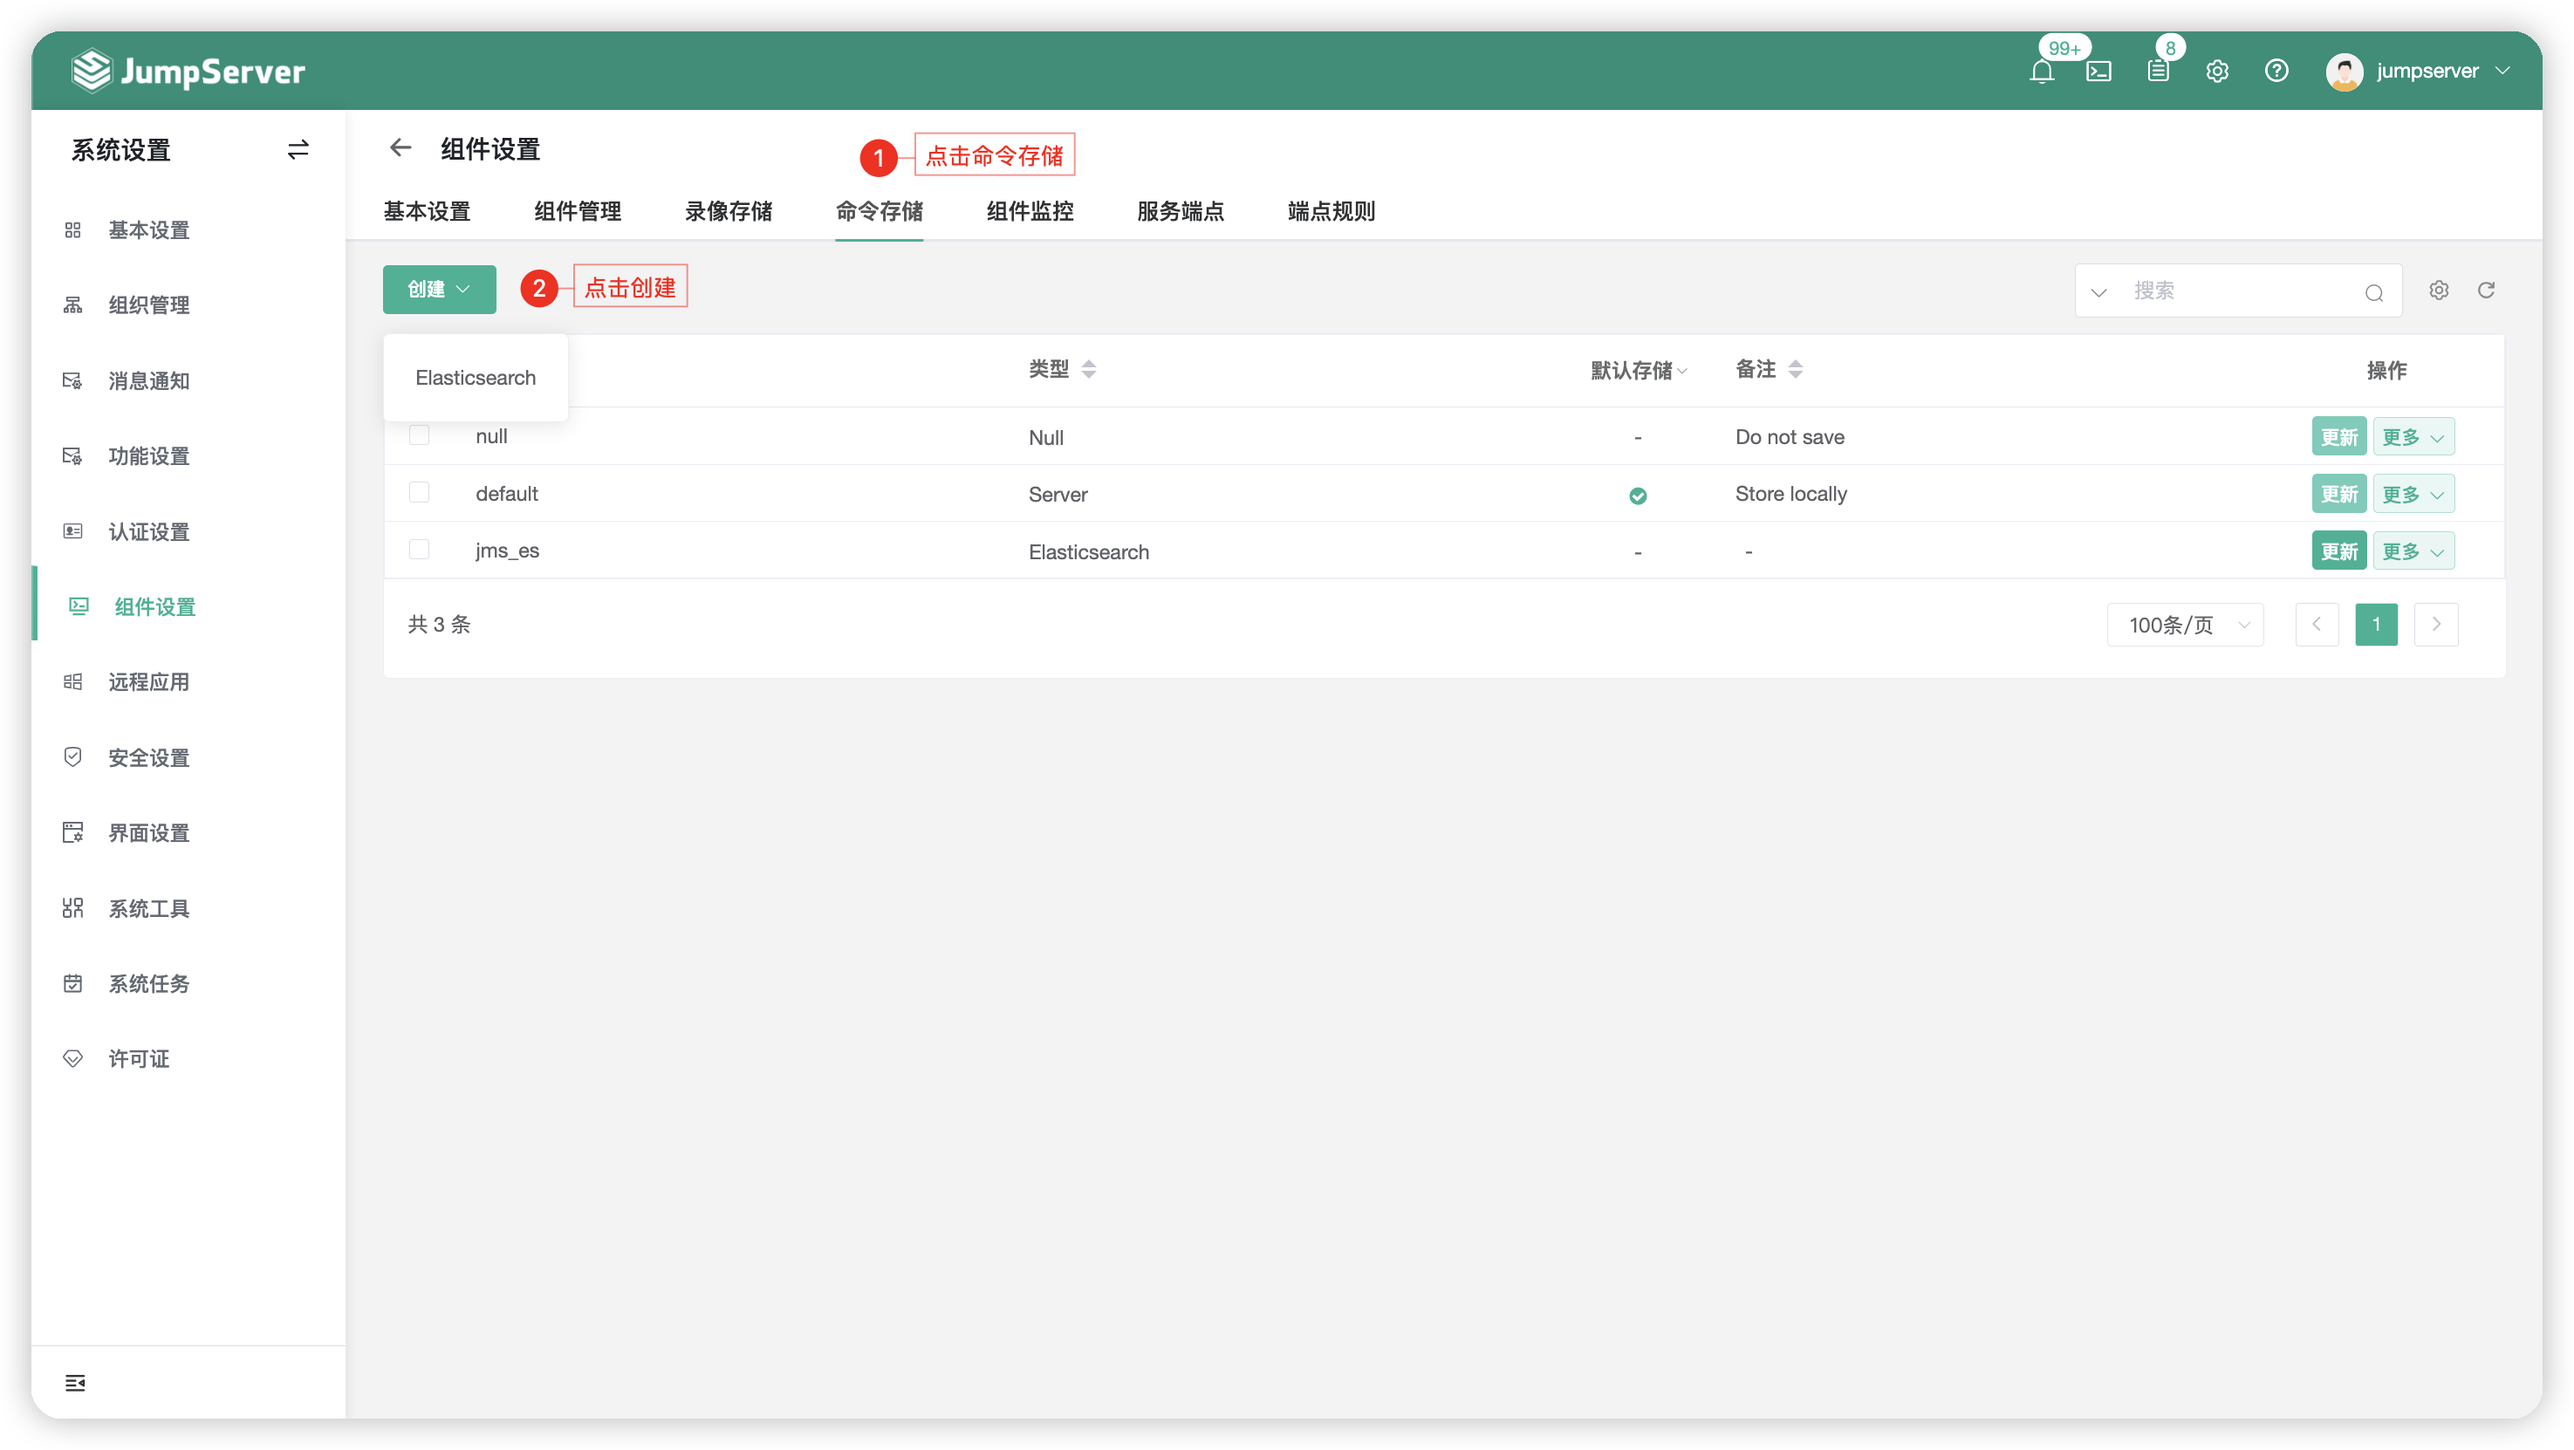
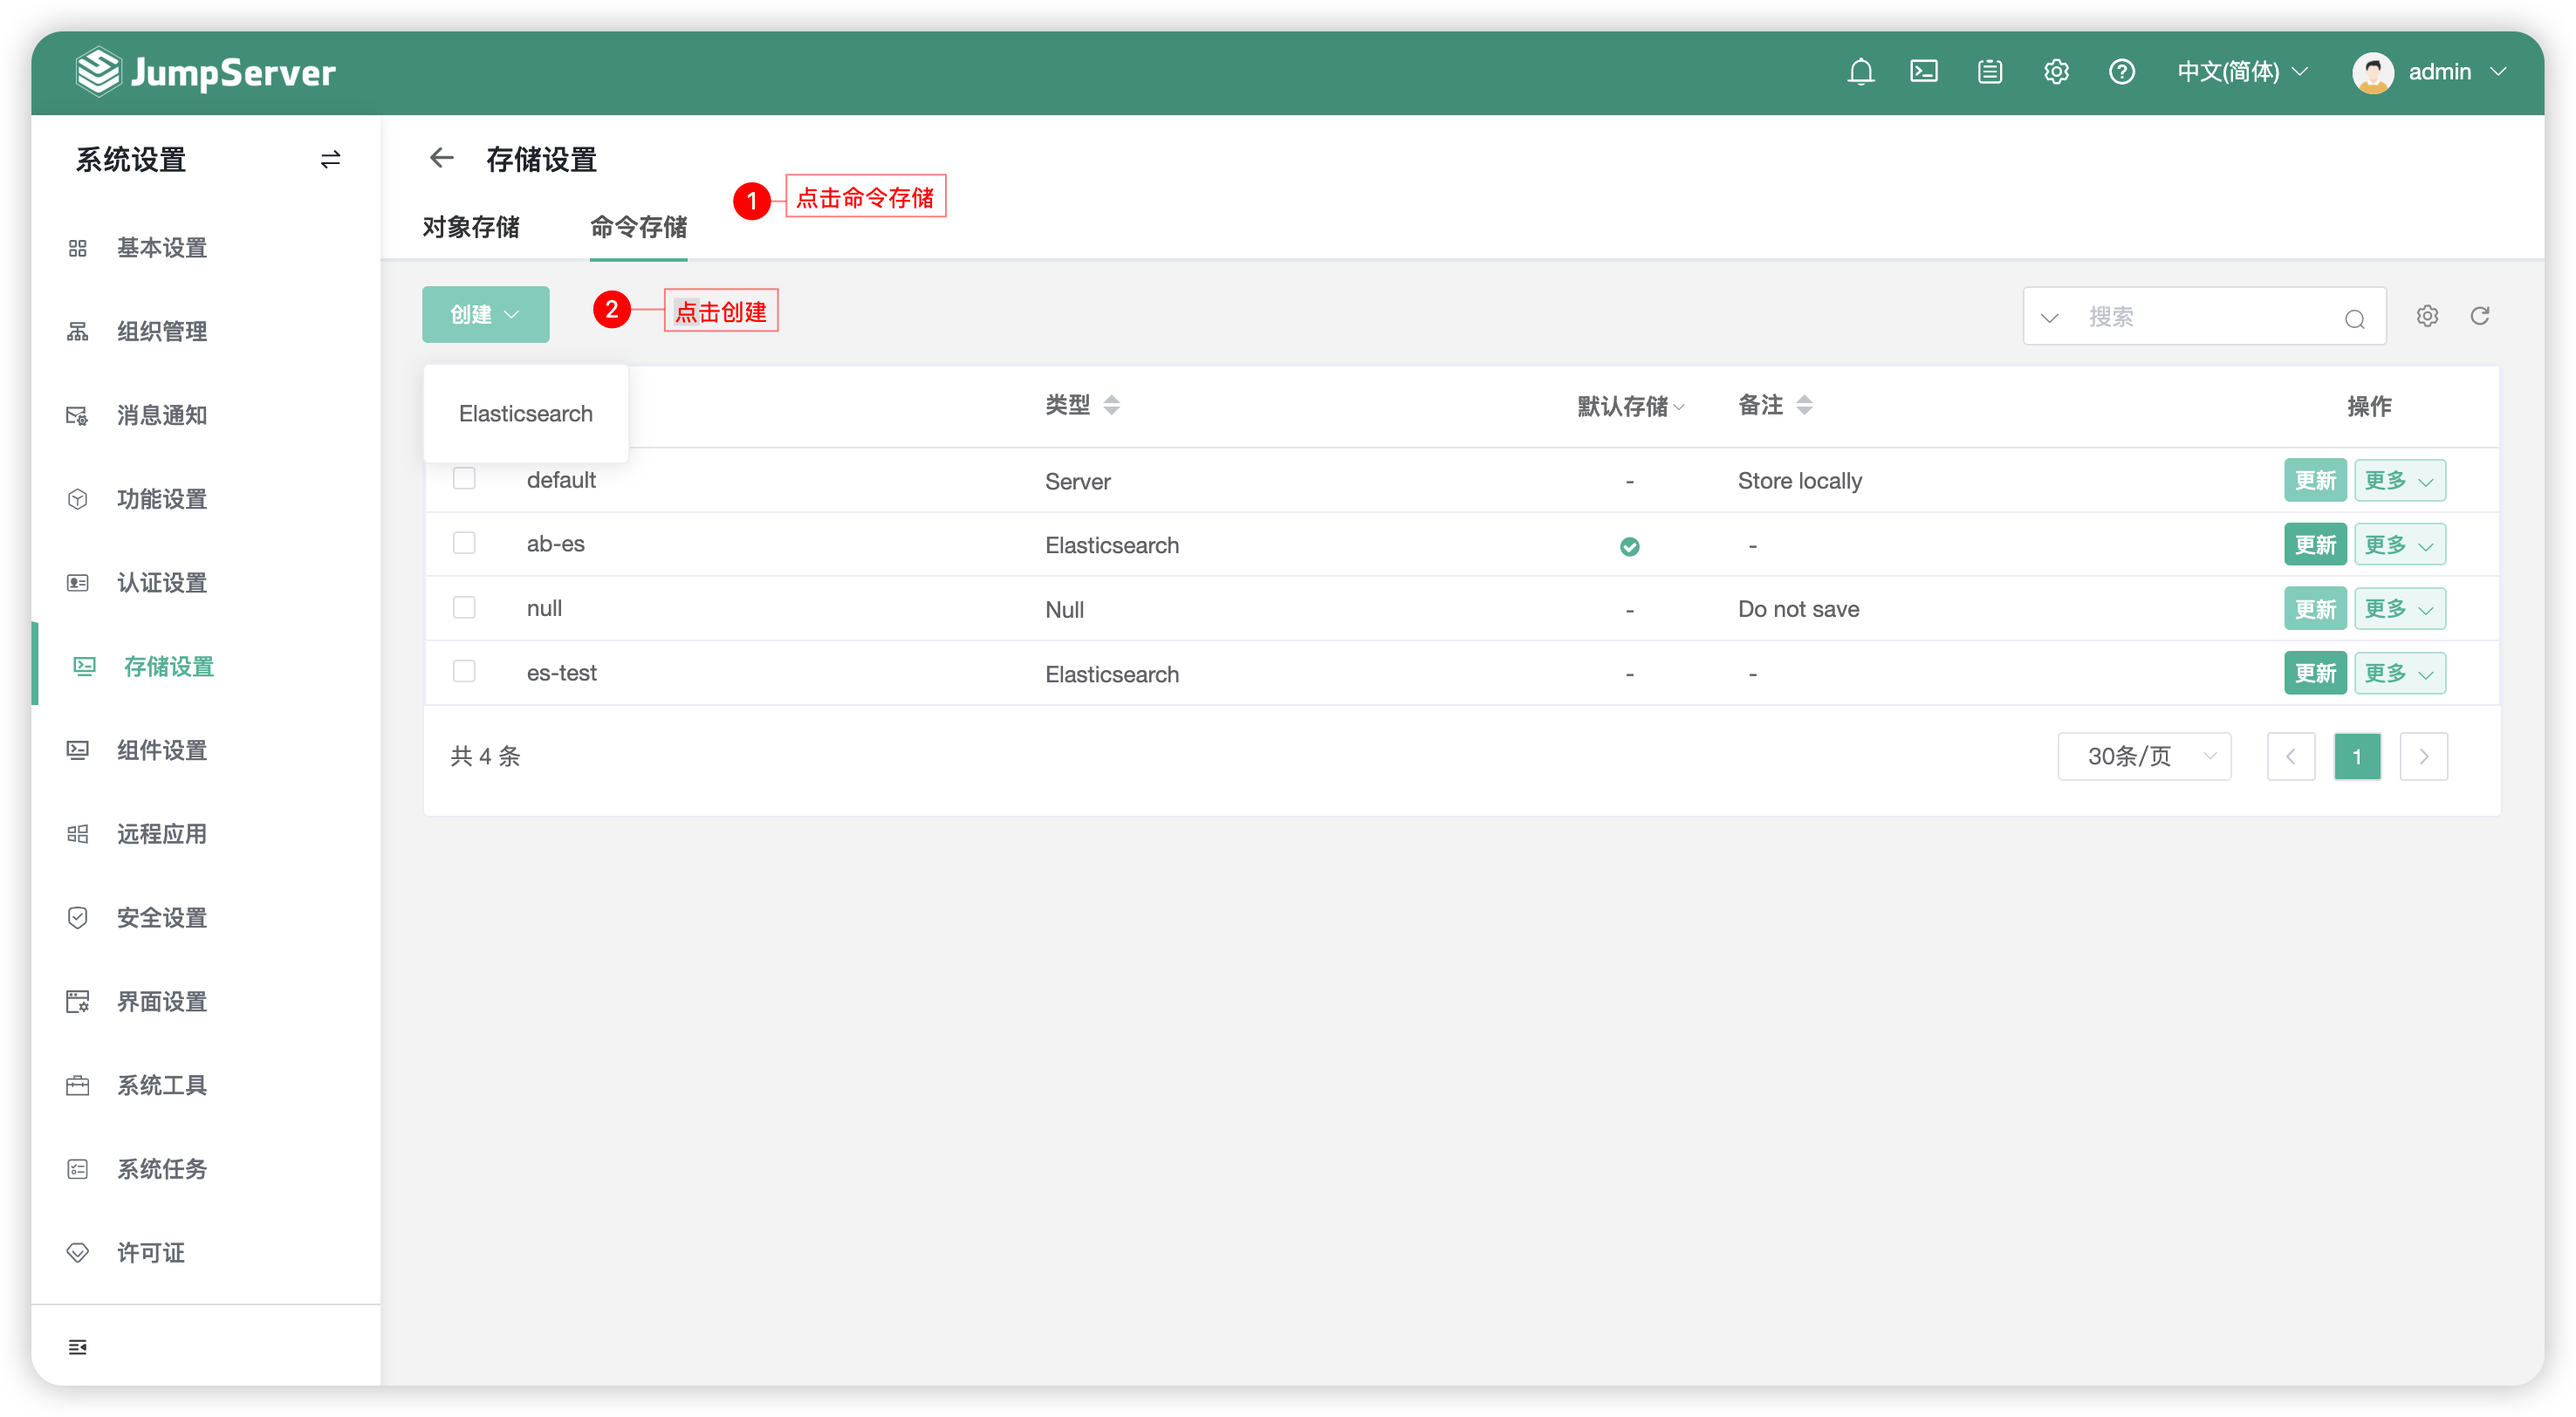
perf: 优化存储设置

diff --git a/docs/guide/system/component.md b/docs/guide/system/component.md
@@ -6,7 +6,7 @@
 
 ## 2 基本设置
 !!! tip ""
-    - 基本设置主要对四个方面进行设置：KoKo 组件、Razor 组件、Magnus 组件和 Luna 组件。
+    - 基本设置主要对三个方面进行设置：KoKo 组件、Razor 组件和 Magnus 组件。
 
 !!! tip ""
     - KoKo 组件是服务于类 Unix 资产平台的组件，该组件的功能主要是：命令行的方式纳管 Linux、数据库、K8S 等资产；
@@ -29,10 +29,8 @@
     | 密钥认证 | 该选项针对于命令行方式登录 JumpServer 堡垒机，关闭密钥认证即不支持密钥认证。 |
     | 资产列表排序 | 资产列表的排序规则按照"主机名"或者"IP"。 |
     | 资产列表每页数量 | 资产列表每一页展示的资产数量。 |
-    | Telnet 成功正则表达式 | 不同设备登录成功提示不一样，所以如果 Telnet 不能正常登录，可以这里设置。 |
     | 启用 Razor 服务 | 是否启用 Razor 服务即使用RDP客户端连接 Windows 资产。 |
     | 启用数据库组件 | 是否启用 Magnus 服务即使用外部客户端连接数据库资产。 |
-    | 默认图像化分辨率 | 设置在 Luna 页面中连接图形化资产时默认使用的分辨率。 |
 
 ## 3 组件管理
 !!! tip ""
@@ -50,48 +48,18 @@
     - 更新组件的命令存储与录像存储，录像记录默认存放在服务器本地；命令记录默认存放在数据库中，这里可以更改录像与命令记录到外部存储。
 ![component04](../../img/component04.png)
 
-## 4 录像存储
-!!! tip ""
-    - 录像存储页面可以对 JumpServer 连接资产的会话录像存储的位置进行自定义。
-    - 目前支持的外部录像存储有亚马逊的 S3 云存储、Ceph、Swift、OSS、Azure、OBS、COS。
-![component05](../../img/component05.png)
-
-!!! tip ""
-    - 点击`创建`按钮，选择对应的存储类型，以华为云的 OBS 存储为例：
-    - 以下图片中红框中的认证信息均在华为云控制台页面获取，输入对应的字段后点击提交。
-    - 创建完成后，即在终端管理中更新录像存储将录像存储在华为的 OBS 存储桶中。
-![component06](../../img/component06.png)
-
-!!! warning "注意"
-    - JumpServer 录像存储对接外部存储后，定期清理页面中的会话日志保存时间对录像存储失效。
-
-## 5 命令存储
-!!! tip ""
-    - 命令存储页面可以对 JumpServer 连接资产的会话命令记录存储的位置进行自定义。
-    - 目前支持的外部命令存储有 Elasticsearch。
-![component07](../../img/component07.png)
-
-!!! tip ""
-    - 点击`创建`按钮，创建一个新的命令存储，将 JumpServer 连接资产产生的会话存储到外部，减少数据库的存储用量。
-    - 输入对应的字段点击提交，即创建成功，创建成功需要点击 Elasticsearch `名称` 后的 `更多` - `测试`，来进行验证测试。
-    - JumpServer 支持使用 Elasticsearch 存储日志并支持根据日期建立索引，索引名为：JumpServer 中配置的索引名+命令记录产生的日期，方便用户根据日期进行查询与管理。
-![component08](../../img/component08.png)
-
-!!! warning "注意"
-    - JumpServer 命令存储对接外部存储后，定期清理页面中的会话日志保存时间对命令存储失效。
-
-## 6 组件监控
+## 4 组件监控
 !!! tip ""
     - 组件监控页面可以查看每个组件的状态，具体信息包含：组件的负载状态与该组件目前在线会话数。
 ![component09](../../img/component09.png)
 
-## 7 服务端点
+## 5 服务端点
 !!! tip ""
     - 服务端点页面主要是访问入口的相关设置，服务端点使用户访问服务的地址（端口），当用户在连接资产时，会根据端点规则和资产标签选择服务端点，作为访问入口建立连接，实现分布式连接资产。
     - 以下页面为 JumpServer 默认需要开通的端口，2222、3389以及数据库映射端口。
 ![component10](../../img/component10.png)
 
-### 7.1 举例说明
+### 5.1 举例说明
 !!! tip "适用场景，例如："
     - 某公司在华为云上有两个区域的资产，分别处于北京与上海，需要使用同一套堡垒机对他们进行纳管，会由于网络延迟以及带宽性能的问题造成较大的困难。
     - 服务端点此时即可解决，例如：使用北京的一台资产部署一套 JumpServer 系统、上海的一台资产部署一套 JumpServer 系统。
@@ -111,7 +79,7 @@
 ![component14](../../img/component14.png)
 
 
-## 8 端点规则
+## 6 端点规则
 !!! tip "提示"
     - 对于服务端点选择策略，目前支持两种：
     - 1、根据端点规则指定端点(当前页面)

diff --git a/docs/guide/system/storages.md b/docs/guide/system/storages.md
@@ -1,0 +1,39 @@
+# 存储设置
+## 1 对象存储
+!!! tip ""
+    - 录像存储页面可以对 JumpServer 连接资产的会话录像存储的位置进行自定义。
+    - 目前支持的外部录像存储有亚马逊的 S3 云存储、Ceph、Swift、OSS、Azure、OBS、COS、SFTP。
+![component05](../../img/component05.png)
+
+!!! tip ""
+    - 点击`创建`按钮，选择对应的存储类型，以 腾讯云COS 存储为例：
+    - 以下图片中的认证信息均在腾讯云控制台页面获取，输入对应的字段后点击提交。
+   
+![component06](../../img/component06.png)
+
+!!! tip ""
+    - 创建完成后，即在组件管理中更新对象存储，将录像存储在 腾讯云COS 存储桶中。
+![update_component01](../../img/update_component01.png)
+
+!!! warning "注意"
+    - JumpServer 录像存储对接外部存储后，定期清理页面中的会话日志保存时间对录像存储失效。
+
+## 2 命令存储
+!!! tip ""
+    - 命令存储页面可以对 JumpServer 连接资产的会话命令记录存储的位置进行自定义。
+    - 目前支持的外部命令存储有 Elasticsearch。
+![component07](../../img/component07.png)
+
+!!! tip ""
+    - 点击`创建`按钮，创建一个新的命令存储，将 JumpServer 连接资产产生的会话存储到外部，减少数据库的存储用量。
+    - 输入对应的字段点击提交，即创建成功，创建成功需要点击 Elasticsearch `名称` 后的 `更多` - `测试`，来进行验证测试。
+    - JumpServer 支持使用 Elasticsearch 存储日志并支持根据日期建立索引，索引名为：JumpServer 中配置的索引名+命令记录产生的日期，方便用户根据日期进行查询与管理。
+![component08](../../img/component08.png)
+
+!!! tip ""
+    - 创建完成后，即在组件管理中更新命令存储，将录像存储在 Elasticsearch 中。
+![update_component02](../../img/update_component02.png)
+
+
+!!! warning "注意"
+    - JumpServer 命令存储对接外部存储后，定期清理页面中的会话日志保存时间对命令存储失效。

diff --git a/docs/architecture.md b/docs/architecture.md
@@ -10,10 +10,14 @@
     - Core 组件是 JumpServer 的核心组件，其他组件依赖此组件启动。
     - Koko 是服务于类 Unix 资产平台的组件，通过 SSH、Telnet 协议提供字符型连接。
     - Lion 是服务于 Windows 资产平台的组件，用于 Web 端访问 Windows 资产。
-    - Omnidb 是服务于数据库的组件，用于可视化界面纳管数据库。
-    - Razor 是服务于 RDP 协议组件，该组件主要功能是通过 JumpServer Client 方式访问 Windows 资产。
-    - Magnus 是服务于数据库的组件，用于通过客户端代理访问数据库。
+    - XRDP 是服务于 RDP 协议组件，该组件主要功能是通过 JumpServer Client 方式访问 windows 2000、XP 等系统的资产。
+    - Razor 是服务于 RDP 协议组件，JumpServer Client 默认使用 Razor 组件访问 Windows 资产。
+    - Magnus 是服务于数据库的组件，用于通过客户端代理访问数据库资产。
+    - Kael 是服务于 GPT 资产平台的组件，用于纳管 ChatGPT 资产。
+    - Chen 是服务于数据库的组件，用于通过 Web GUI 方式访问数据库资产。
     - Celery 是处理异步任务的组件，用于执行 JumpServer 相关的自动化任务。
+    - Video 是专门处理 Razor 组件和 Lion 组件产生录像的格式转换工作，将产生的会话录像转化为 MP4 格式。
+    
 
 ## 3 逻辑架构
 !!! tip "详见 [源码部署](installation/source_install/requirements.md)"

diff --git a/docs/installation/upgrade_notice.md b/docs/installation/upgrade_notice.md
@@ -1,5 +1,7 @@
 # 升级须知
 !!! warning "v3 版本与 v2 版本存在一定的差异，如需 v2 版本升级至 v3 版本 [请先阅读此文档](https://kb.fit2cloud.com/?p=06638d69-f109-4333-b5bf-65b17b297ed9){:target="_blank"}"
+!!! warning "v2.20 =< Version <= v2.23 之间的版本需先升级到 v2.28 版本，再升级到 v3 版本，否则会出现资产连接失败的问题"
+
 
 !!! warning "注意"
     **v3.6 版本为了安全，要求强制填写 DOMAINS 可信任域名才能正常访问服务，否则会提示错误码 400/403 导致无法无法访问页面，DOMAINS 配置如下。**
